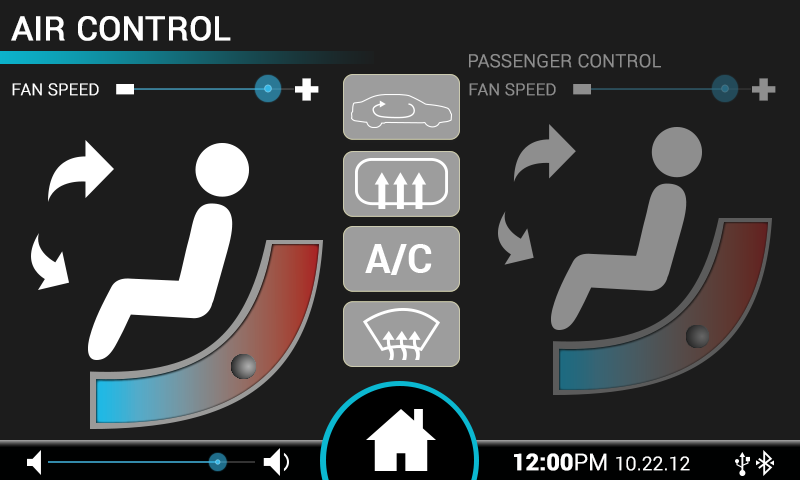
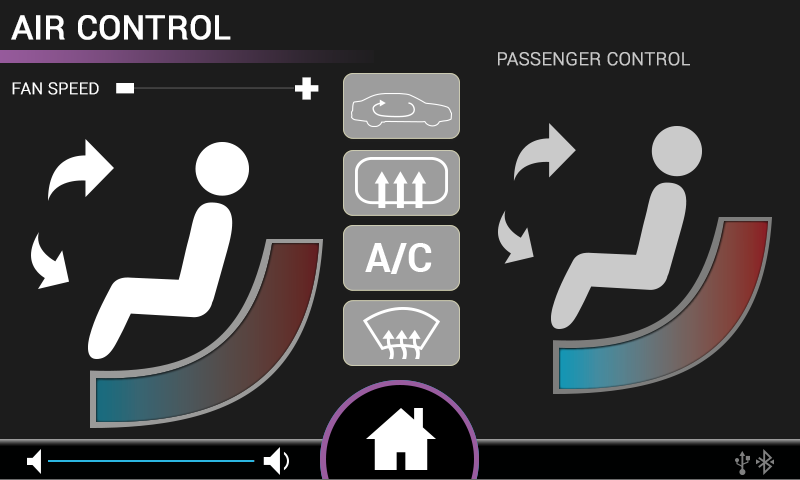
Corrected two and confirmed all other CAN messages were correct - Passenger and driver temp messages corrected

diff --git a/qml/UI_v2/BatteryTemp.qml b/qml/UI_v2/BatteryTemp.qml
@@ -350,7 +350,7 @@ Image{
 
 
     //Repeats every second to see if the mode has changed
-    Timer{
+    /*Timer{
         id: modeTimer
         interval: 1000;
         running: true;
@@ -367,7 +367,7 @@ Image{
             }
             else battPage.source="UIPictures/Buttons/Battery Pics/normalbattery.png"
             }
-        }
+        }*/
 
     //Battery Charge
     Rectangle {

diff --git a/qml/UI_v2/main.qml b/qml/UI_v2/main.qml
@@ -80,7 +80,7 @@ Rectangle {
 
         Timer{
             id: diagnosticMsg
-            interval: 1000;
+            interval: 500;
             running: true;
             repeat: true;
             onTriggered: {

diff --git a/AC_Controls.h b/AC_Controls.h
@@ -61,9 +61,12 @@ public:
 
     }
 
+    // This function is not used/sends no can messages**
+    //********************Delete in future
     Q_INVOKABLE void ventButtons(const QString &ventButtonStatus) {
           qDebug() << "Vent Status:" << ventButtonStatus;
     }
+    //**************************************************
 
     Q_INVOKABLE void fanLevel(QString fanSpeed){
         QString str0;
@@ -75,8 +78,8 @@ public:
     Q_INVOKABLE void acTemp(QString acTempLeft, QString acTempRight){
         qDebug() << "Current AC Temp Left is set at: "+acTempLeft;       // Min: 60, Max: 80
         qDebug() << "Current AC Temp Right is set at: "+acTempRight;       // Min: 60, Max: 80
-        QString str1 = "cansend can1 -i 0x257 0x07 0xAE 0x02 0x"+acTempRight+" 0x0 0x0 0x0";
-        QString str0 = "cansend can1 -i 0x257 0x07 0xAE 0x01 0x"+acTempLeft +" 0x0 0x0 0x0";
+        QString str1 = "cansend can1 -i 0x251 0x07 0xAE 0x02 0x02 0x"+acTempRight+" 0x0 0x0 0x0";
+        QString str0 = "cansend can1 -i 0x251 0x07 0xAE 0x02 0x01 0x"+acTempLeft +" 0x0 0x0 0x0";
         QProcess::execute(str1);
         QProcess::execute(str0);
     }
@@ -88,13 +91,13 @@ public:
 
     Q_INVOKABLE void acFloorToggle(){
         qDebug() << "Floor fan toggles";
-        QString str1 = "cansend can1 -i 0x251 0x07 0xAE 0X04 0X40 0X40 0X0 0X0 0X0";
+        QString str1 = "cansend can1 -i 0x251 0x07 0xAE 0X04 0X80 0X80 0X0 0X0 0X0";
         QProcess::execute(str1);
     }
 
     Q_INVOKABLE void acFaceToggle(){
         qDebug() << "Face fan toggles";
-        QString str1 = "cansend can1 -i 0x251 0x07 0xAE 0X04 0X0 0X0 0X10 0X10 0X0";
+        QString str1 = "cansend can1 -i 0x251 0x07 0xAE 0X04 0X40 0X40 0X0 0X0 0X0";
         QProcess::execute(str1);
     }
 

diff --git a/CanControl.cpp b/CanControl.cpp
@@ -20,6 +20,7 @@ void CanControl::start_up(){
 
 void CanControl::send(QString canMessageID, QString canMessageData){
     QProcess::execute("cansend can1 -i "+canMessageID+" "+canMessageData);
+    qDebug() << "Sending diagnostic message";
 }
 
 int* CanControl::recieve_b(QString canMessageID){
@@ -62,7 +63,7 @@ void CanControl::recieve_nb(QString canMessageID){
     emit _can_recieve_start(canMessageID);
 }
 
-int find_low(int temp_value){
+/*int find_low(int temp_value){
     int store_temp;
     if (store_temp > temp_value){
         return temp_value;
@@ -88,7 +89,7 @@ int find_avg(int next_temp){
     number++;
     sum = sum + next_temp;
     return (sum/number);
-}
+}*/
 
 void CanControl::_message_ready(QString canMessageID, int *canMessageData){
 //    emit message_recieved(canMessageID, canMessageData);
@@ -96,10 +97,10 @@ void CanControl::_message_ready(QString canMessageID, int *canMessageData){
     emit batt_temp_recieved(QString::number(canMessageData[1]*0.5-40));
     emit batt_soc_recieved(QString::number(canMessageData[2]*0.5));
     emit batt_current_recieved(QString::number((canMessageData[3]*256+canMessageData[4])*0.025-1000));
-    int low = find_low(canMessageData[1]*0.5-40);
+   /* int low = find_low(canMessageData[1]*0.5-40);
     emit batt_low(QString::number(low));
     int high = find_high(canMessageData[1]*0.5-40);
     emit batt_high(QString::number(high));
     int average = find_avg(canMessageData[1]*0.5-40);
-    emit batt_avg(QString::number(average));
+    emit batt_avg(QString::number(average));*/
 }
